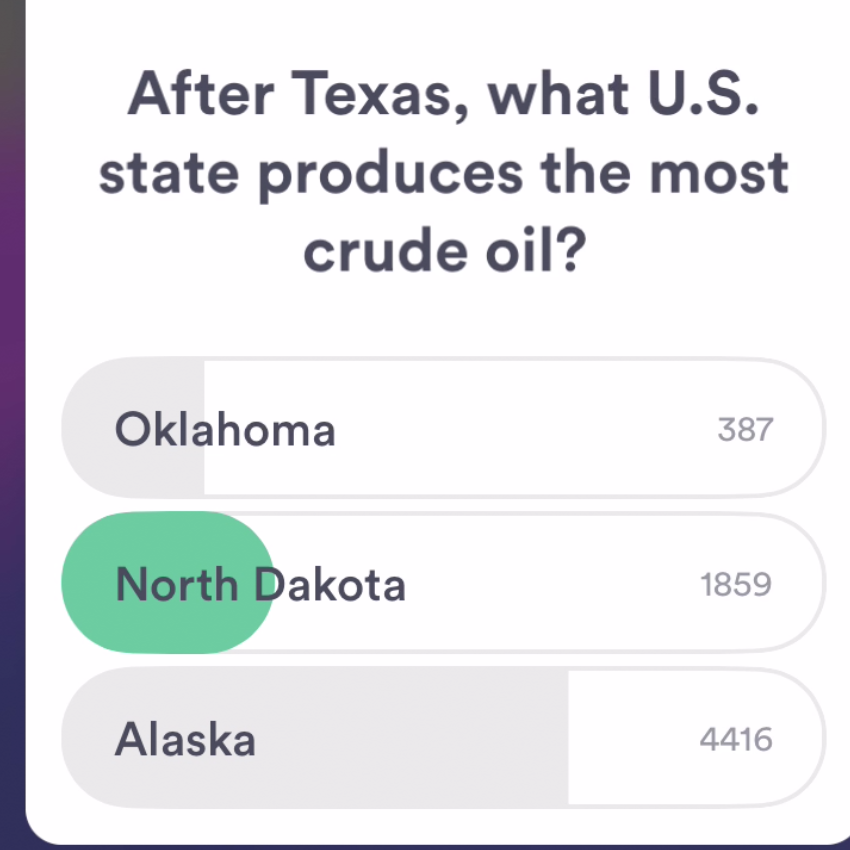
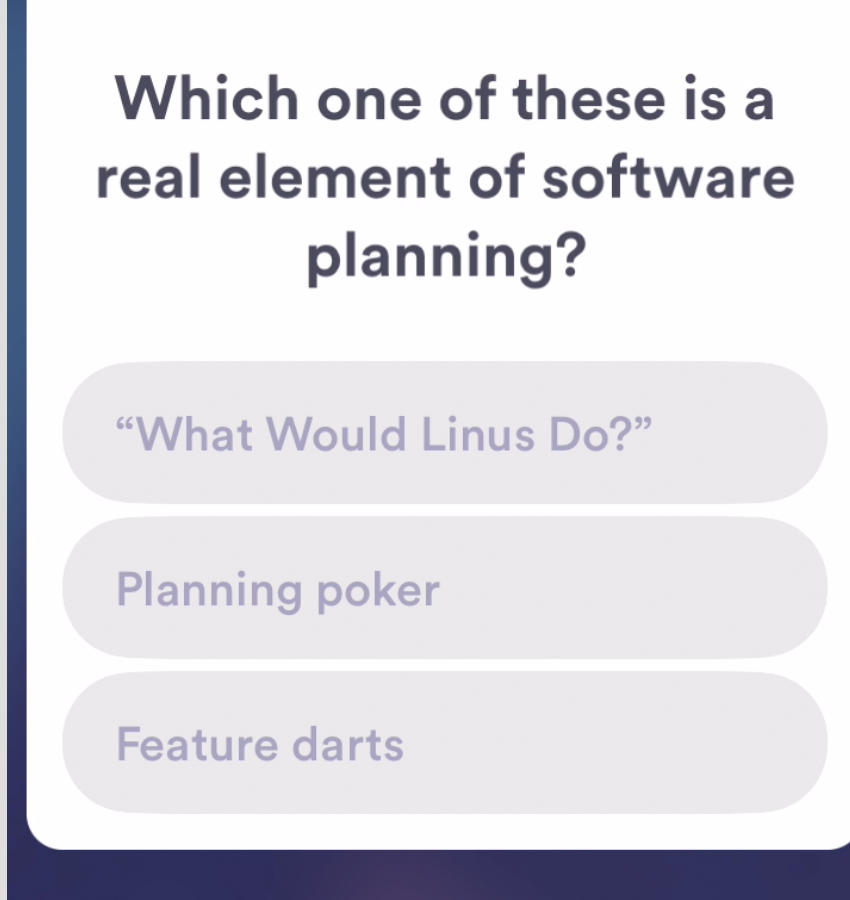
remove most logits, tweak algos to match 2-4 lines, number answers, wrap in quotes if not in them already, launch browser

diff --git a/detect_text.py b/detect_text.py
@@ -40,41 +40,31 @@ def parse_screenshot(path):
     texts_and_bounds = detect_text_with_bounds(path)
     # 3. Parse into questions and answers
     questions_and_answers = get_questions_and_answers(*texts_and_bounds)
-    print("questions and answers: {}".format(questions_and_answers))
+    # print("{}".format(questions_and_answers))
     return questions_and_answers
-
 
 def take_screenshot(path):
     # Grab the screenshot
-    START_SCREENGRAB = time.time()
+    # START_SCREENGRAB = time.time()
     screenshot(path)
-    END_SCREENGRAB = time.time()
-    logit("SCREENGRAB", START_SCREENGRAB, END_SCREENGRAB)
-
+    # END_SCREENGRAB = time.time()
+    # logit("SCREENGRAB", START_SCREENGRAB, END_SCREENGRAB)
 
 def get_questions_and_answers(block_texts, block_bounds):
     """return a dict with `question` and array of `answers`"""
-    question = None
-    answers = []
+    question = block_texts[0]
+    answers = [block_texts[1], block_texts[2], block_texts[3]]
     for i, text in enumerate(block_texts):
-        bounds = block_bounds[i]
-        # the question is the first block
-        if (question is None and is_question_block(bounds)):
-            question = text
-        elif len(answers) <= 3 and not text.isnumeric():
-            answers.append(text)
-        elif len(answers) == 3:
-            break  # reached total num
+        print("{}: {}".format(i, text))
 
     return {'question': question, 'answers': answers}
-
 
 def detect_text_with_bounds(path):
     """
     Detects text in the file with bounds.
     Returns a tuple of the block texts and block bounds
     """
-    START_DOC_OCR = time.time()
+    # START_DOC_OCR = time.time()
 
     with io.open(path, 'rb') as image_file:
         content = image_file.read()
@@ -82,8 +72,8 @@ def detect_text_with_bounds(path):
     response = client.document_text_detection(image=image)
     document = response.full_text_annotation
 
-    END_DOC_OCR = time.time()
-    logit("DOC OCR", START_DOC_OCR, END_DOC_OCR)
+    # END_DOC_OCR = time.time()
+    # logit("DOC OCR", START_DOC_OCR, END_DOC_OCR)
 
     block_bounds = []
     block_texts = []
@@ -99,7 +89,7 @@ def detect_text_with_bounds(path):
             block_words_mapped = list(map(map_words, block_words))
 
             block_text = ' '.join(block_words_mapped)
-            print('Block Content: {}'.format(block_text))
+            # print('Block Content: {}'.format(block_text))
             # print('Block Bounds:\n {}'.format(block.bounding_box))
             block_texts.append(block_text)
             block_bounds.append(block.bounding_box)

diff --git a/main.py b/main.py
@@ -1,21 +1,31 @@
 # will take screenshot => output/screenshot.png
 from detect_text import parse_screenshot, logit, IMAGE_PATH
 from google_search import run_query_all
-# import pprint
 import time
+import webbrowser
+search_terms = []
 
 START_FULL = time.time()
 
+# ... construct your list of search terms ...
+def launch_web(term):
+    url = "https://www.google.com.tr/search?q={}".format(term)
+    webbrowser.open_new_tab(url)
+
 def main():
     q_and_a = parse_screenshot(IMAGE_PATH)
-    START_QUERY_ALL = time.time()
-    tuples = run_query_all(q_and_a['question'], q_and_a['answers'])
+    # START_QUERY_ALL = time.time()
+    (question, results) = run_query_all(q_and_a['question'],
+                                        q_and_a['answers'])
 
-    END_QUERY_ALL = time.time()
-    logit("QUERY ALL", START_QUERY_ALL, END_QUERY_ALL)
-    for (answer, total) in tuples:
+    # END_QUERY_ALL = time.time()
+    # logit("QUERY ALL", START_QUERY_ALL, END_QUERY_ALL)
+    for (answer, total) in results:
         print("answer: {} === TOTAL: {}".format(answer, total))
-       
+
+    # launch in browser
+    launch_web(question)
+
 if __name__ == '__main__':
     main()
 

diff --git a/google_search.py b/google_search.py
@@ -15,9 +15,12 @@ def run_query_all(question, answers):
     """
     results = []
     for answer in answers:
-        query = question + " " + answer
+        if (answer.startswith('"')):
+            query = question + " " + answer
+        else:
+            query = question + ' "' + answer + '"'
         results.append((answer, search(query)))
-    return results
+    return (question, results)
 
 def search(query):
     service = build("customsearch", "v1", developerKey=CUSTOM_SEARCH_API_KEY)
@@ -26,7 +29,6 @@ def search(query):
         cx=CUSTOM_SEARCH_ENGINE_ID,
     ).execute()
     return res['searchInformation']['formattedTotalResults']
-
 
 if __name__ == '__main__':
     search('lectures')

diff --git a/screengrab.py b/screengrab.py
@@ -8,7 +8,7 @@ SCREENSHOT_HEIGHT = 1200
 
 def screenshot(image_path):
     # [x0, y0, x1, y1] - take top left
-    img = ImageGrab.grab(bbox=[0, 350, SCREENSHOT_WIDTH, SCREENSHOT_HEIGHT])
+    img = ImageGrab.grab(bbox=[0, 300, SCREENSHOT_WIDTH, SCREENSHOT_HEIGHT])
     img.save(image_path)
 
 if __name__ == '__main__':
